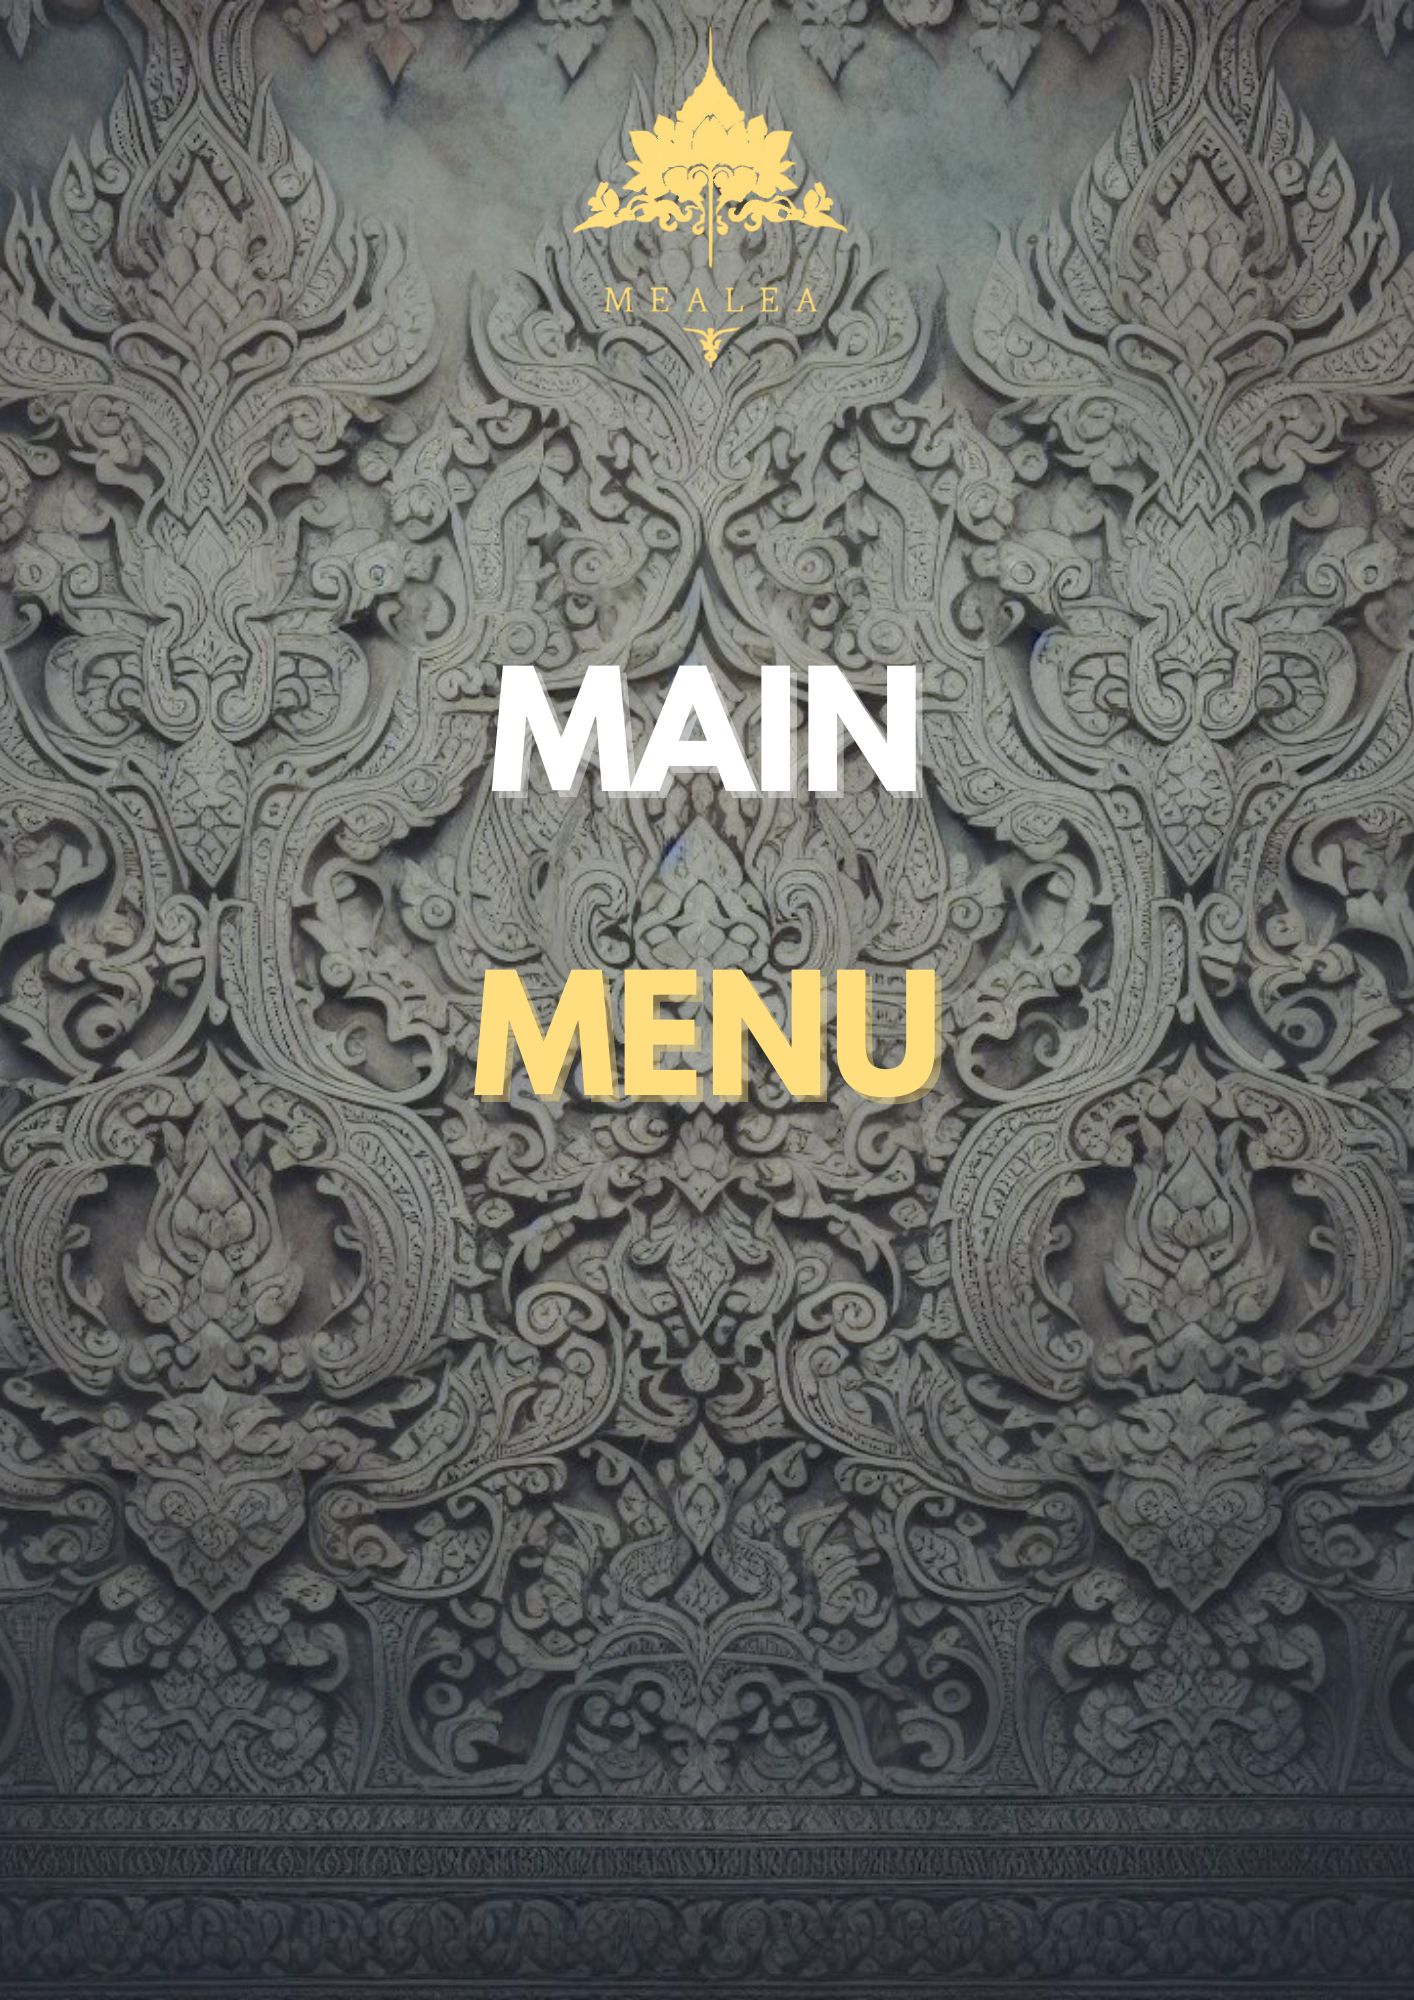
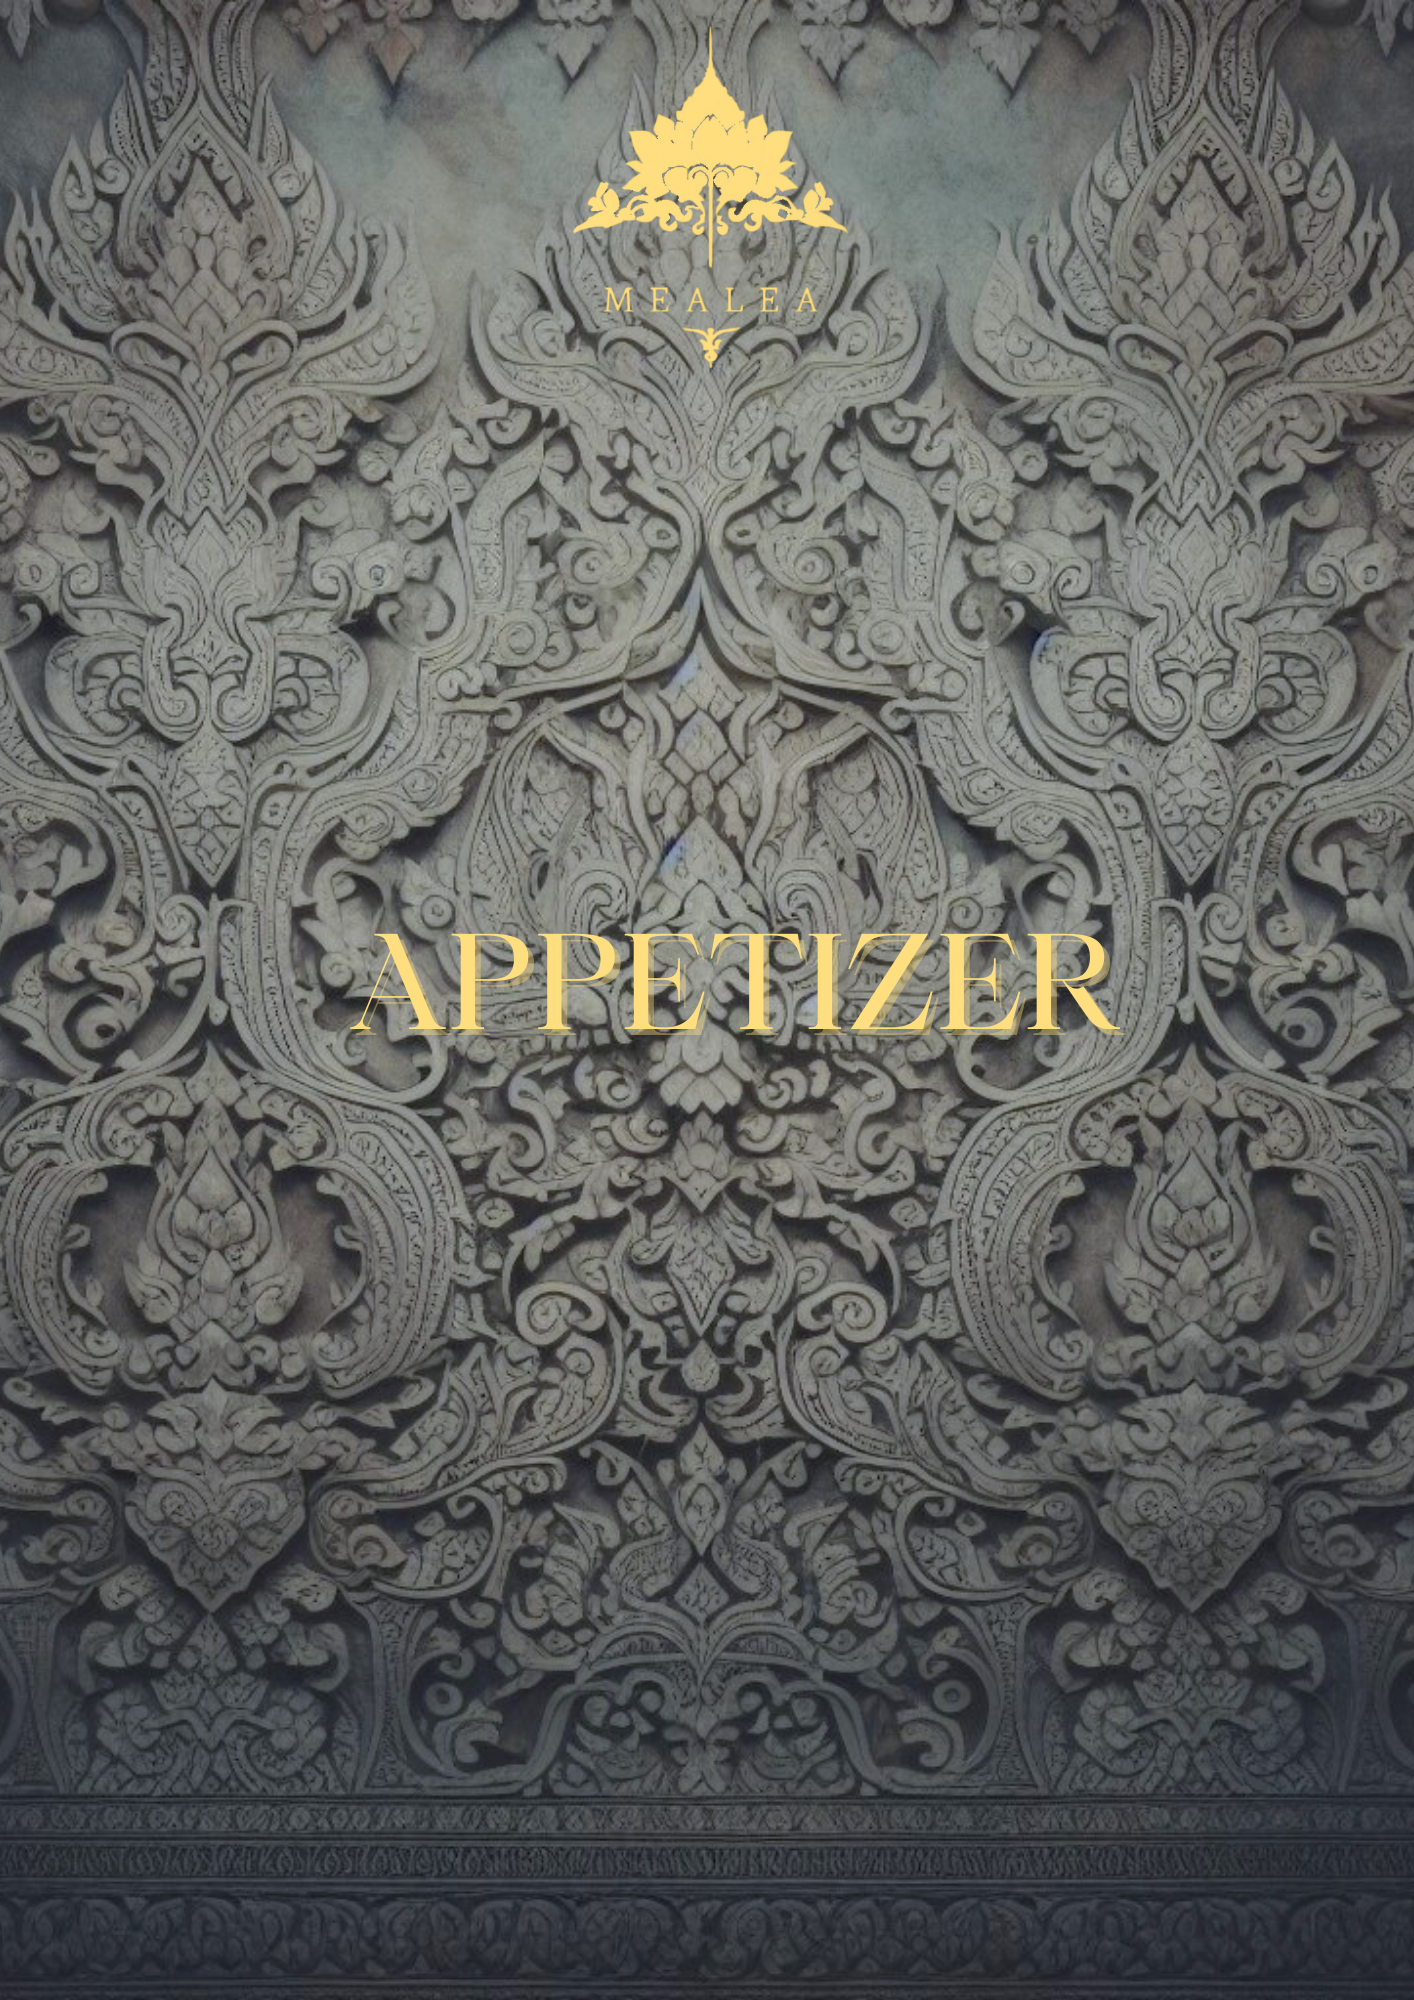
modify menu images

Changed region(s): [[0.2489, 0.465, 0.8091, 0.558], [0.3423, 0.31, 0.6535, 0.403]]

diff --git a/home.html b/home.html
@@ -122,23 +122,23 @@
             <a href="menu.html#appetizer-menu">
                 <img src="pic2.png" alt="Image Link to Section 2 on Another Page">
                 <div class="second-image">
-                    <img src="pic3.png" alt="second-image">
+                    <img src="pic6.png" alt="second-image">
                 </div>
                 </a>
             <!-- <img src="pic2.png" alt="Appetizer"> -->
         </div>
         <div class="image-box">
             <a href="menu.html#main-menu">
-                <img src="pic4.png" alt="Image Link to Section 2 on Another Page">
+                <img src="pic3.png" alt="Image Link to Section 2 on Another Page">
                 <div class="second-image">
-                    <img src="pic6.png" alt="second-image">
+                    <img src="pic7.png" alt="second-image">
                 </div>
                 </a>
             <!-- <img src="pic3.png" alt="Main Course"> -->
         </div>
         <div class="image-box">
             <a href="menu.html#dessert-menu">
-                <img src="pic7.png" alt="Image Link to Section 2 on Another Page">
+                <img src="pic4.png" alt="Image Link to Section 2 on Another Page">
                 <div class="second-image">
                     <img src="pic8.png" alt="second-image">
                 </div>
